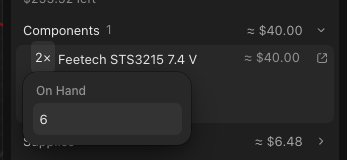
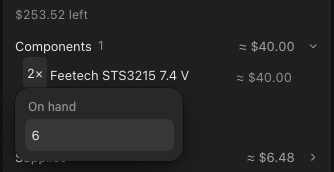
Use sentence case for On hand and keep purchase saves from overwriting each other
Review asked for the new quantity-editor field label in sentence case, like the
Build tab's other field labels (§3b-1). It is now "On hand" in the app, the e2e
locator, three help articles, the guide and a recaptured screenshot.

savePurchaseNow now writes the record into the app's purchase cache before the
bridge answers, and only the latest save's answer replaces the cache. A count
and a price saved together each keep the other's half, and ⌘Z right after a
count reads the new count as its redo. A unit test covers both.

Help articles that cover the changed files now say the web studio keeps and
runs counts of owned parts, and that the agent sees and picks owned parts
first. No changelog entry: a refine change doesn't get one.

diff --git a/src/components/build/usePurchases.test.ts b/src/components/build/usePurchases.test.ts
@@ -1,0 +1,54 @@
+import { describe, expect, it, vi } from 'vitest';
+import type { Purchases, StoredPurchase } from '../../types/robotics';
+import { withPrice } from '../../utils/purchases';
+
+const stored: Purchases = {};
+const pending: (() => void)[] = [];
+
+vi.mock('../../utils/platformBridge', () => ({
+  platformBridge: {
+    listPurchases: () => Promise.resolve({ ...stored }),
+    savePurchase: (key: string, record: StoredPurchase | null) => {
+      if (record) stored[key] = record;
+      else delete stored[key];
+
+      const snapshot = { ...stored };
+
+      return new Promise<Purchases>((resolve) => pending.push(() => resolve(snapshot)));
+    },
+  },
+}));
+
+const { knownPurchases, readOnHand, savePurchaseNow, writeOnHand } = await import('./usePurchases');
+
+const tick = () => new Promise((resolve) => setTimeout(resolve));
+
+const settle = async () => {
+  await tick();
+  pending.splice(0).forEach((resolve) => resolve());
+  await tick();
+};
+
+describe('saving purchases', () => {
+  it('keeps a count and a price saved together, and reads the new count before the save lands', async () => {
+    const first = writeOnHand('servo:sts3215', 2);
+
+    await settle();
+    await first;
+
+    const count = writeOnHand('servo:sts3215', 6);
+
+    expect(readOnHand('servo:sts3215')).toBe(6);
+
+    const price = savePurchaseNow(
+      'servo:sts3215',
+      withPrice(knownPurchases()?.['servo:sts3215'], { packQty: 1, priceUsd: 18, checkedAt: '2026-11-13' }),
+    );
+
+    await settle();
+    await Promise.all([count, price]);
+
+    expect(stored['servo:sts3215']).toMatchObject({ onHand: 6, priceUsd: 18 });
+    expect(knownPurchases()?.['servo:sts3215']).toMatchObject({ onHand: 6, priceUsd: 18 });
+  });
+});

diff --git a/src/components/build/usePurchases.ts b/src/components/build/usePurchases.ts
@@ -13,8 +13,25 @@ const publish = (next: Purchases) => {
 
 export const knownPurchases = () => purchaseCache;
 
+let latestSave = 0;
+
+function withRecord(current: Purchases, key: string, record: StoredPurchase | null): Purchases {
+  const next = { ...current };
+
+  if (record) next[key] = record;
+  else delete next[key];
+
+  return next;
+}
+
 export async function savePurchaseNow(key: string, record: StoredPurchase | null) {
-  publish(await platformBridge.savePurchase(key, record));
+  const save = ++latestSave;
+
+  if (purchaseCache) publish(withRecord(purchaseCache, key, record));
+
+  const saved = await platformBridge.savePurchase(key, record);
+
+  if (save === latestSave) publish(saved);
 }
 
 export const readOnHand = (key: string) => onHandOf(purchaseCache?.[key]);

diff --git a/e2e/onHand.e2e.test.ts b/e2e/onHand.e2e.test.ts
@@ -60,8 +60,8 @@ it('counts servos on hand at $0 in their row, the total and the Budget check, an
   const before = { total: await total(), budget: await budgetBom(), row: dollars(await row.textContent()) };
 
   await count(6).click();
-  await app.page.getByRole('textbox', { name: 'On Hand' }).fill('6');
-  await app.page.getByRole('textbox', { name: 'On Hand' }).press('Enter');
+  await app.page.getByRole('textbox', { name: 'On hand' }).fill('6');
+  await app.page.getByRole('textbox', { name: 'On hand' }).press('Enter');
   await app.page.keyboard.press('Escape');
   await expect.poll(() => count(0).count(), { timeout: 10000 }).toBe(1);
   expect(await row.textContent()).toContain('6 on hand');

diff --git a/src/components/build/QtyEditor.tsx b/src/components/build/QtyEditor.tsx
@@ -63,7 +63,7 @@ export const QtyEditor: React.FC<QtyEditorProps> = ({ line, extra, onQty, onOnHa
         className="w-48"
       >
         {pieces && extra && <CountField label="Quantity" value={extra.qty} min={1} onCommit={onQty} />}
-        {pieces && <CountField label="On Hand" value={line.onHand} min={0} onCommit={onOnHand} />}
+        {pieces && <CountField label="On hand" value={line.onHand} min={0} onCommit={onOnHand} />}
         {extra && (
           <>
             {pieces && <MenuDivider />}

diff --git a/docs/guide/build.md b/docs/guide/build.md
@@ -25,7 +25,7 @@ The Build tab (right panel) and the agent's build tools turn a model into someth
 - **BOM** (`utils/bom.ts`): components counted by part (and version), hardware by exact normalized spec (`hardware:type|size|length|finish[|drive]`), parts with `supplyId` as that supply, printed parts as filament grams per material (shell + infill model, Bambu densities) plus estimated supports, then spools with a 15% margin; extras by key. Stand-ins (block-out kinds) and parts tagged CNC, laser-cut or hand-modeled COTS are listed as needing a source.
 - **Prices:**
   - **Checked:** `library/purchases.json` (app-wide, keyed by catalog key) holds the price the user saw, with pack size and local date; the listing (link, title, note) is optional. Amazon links are saved as canonical `/dp/ASIN` URLs, other store links as typed. Over 60 days old is Stale. The app never fetches Amazon, and the agent never states a price that isn't in the BOM.
-  - **On hand** (`PurchaseRecord.onHand`, `utils/purchases.ts`): the same store holds how many units of each key the person owns, beside the price or alone (`{ onHand: 6 }` for a part owned without a checked price); old records load unchanged. There's no second inventory file. `electron/purchaseRecord.mjs` checks each saved record on desktop and web alike: a count is a whole number from 0 to 100,000, 0 clears it, and a record left with neither a price nor a count is deleted. Each BOM line splits into `onHand` and `toBuy` (`ownedSplit`), and packs, the line price, the totals, the Budget check, Buy All's cart and the agent's `get_bom` count only the units to buy. A fully owned line stays in its section at $0 and never counts as unpriced. Saving or deleting a price keeps the count (`withPrice`), and setting a count keeps the price (`withOnHand`).
+  - **On hand** (`PurchaseRecord.onHand`, `utils/purchases.ts`): the same store holds how many units of each key the person owns, beside the price or alone (`{ onHand: 6 }` for a part owned without a checked price); old records load unchanged. There's no second inventory file. `electron/purchaseRecord.mjs` checks each saved record on desktop and web alike: a count is a whole number from 0 to 100,000, 0 clears it, and a record left with neither a price nor a count is deleted. Each BOM line splits into `onHand` and `toBuy` (`ownedSplit`), and packs, the line price, the totals, the Budget check, Buy All's cart and the agent's `get_bom` count only the units to buy. A fully owned line stays in its section at $0 and never counts as unpriced. Saving or deleting a price keeps the count (`withPrice`), and setting a count keeps the price (`withOnHand`). `savePurchaseNow` (`usePurchases.ts`) puts the record in the app's copy before the bridge answers, and only the latest save's answer replaces it, so a count and a price saved together each keep the other's half, and ⌘Z right after a count reads the new one.
   - **Currency** (`utils/currency.ts`, `currencyStore.ts`, `useMoney`): every amount is stored and computed in US dollars and converted only when shown, so the BOM, checks, budget and agent tools never mix currencies. The 30 ECB currencies; rates come from Frankfurter (`RATES_SOURCE`) once a day at startup, else the bundled `BUNDLED_RATES` (`data/exchangeRates.ts`; refresh them when you touch it). A price or budget typed in another currency keeps what was typed (`PurchaseRecord.entered`, `ProjectSettings.budgetEntered`) beside its dollar value, so it reads back exactly. Components format with `useMoney()` (never a module-level helper, or the React Compiler caches the old currency); plain text for the agent uses `formatMoney` / `formatWhole`, adds `currencyNote` when it isn't USD, and `set_build` takes `budget` in the user's currency. Checks rerun when the currency or rates change. Amazon links stay on amazon.com.
   - **Estimated:** `data/listPrices.ts` holds list prices from maker and US distributor stores (never Amazon), each with store, URL and date. Shown as "≈ $" and counted only in the estimated total.
 - **BOM sections:** Components, Hardware, Added by Agent, Supplies, Materials, Filament, Equipment. Equipment (the Tools supply group and sourced equipment) stays out of the robot's cost.
@@ -67,7 +67,7 @@ The Build tab (right panel) and the agent's build tools turn a model into someth
     - **Lines:** quantity first in its own column (spools for filament, with the grams below), then name, part number or spec (wrapping, never truncated) and packs, then the price. Prices line up under the subtotals: checked in white, ≈ list price muted, stale in amber, otherwise a quiet Add Price. All three open the Add Price sheet (`CheckSheet`, a `Modal`: price first, typed freely and shown as `$1,200.50`, Enter saves; the listing fields fold under Listing; a saved price's Delete Price asks first, like every delete, and the line falls back to its list price or Add Price). Open listing (Search Amazon when there's no product link) floats in the right gutter on hover, under the chevron column, so it covers nothing, and sits at the right of the sheet's header, so checking a price never means unfolding Listing first. Both use `linkLabel`.
     - **Parts:** a line with parts in the scene selects them all on click and previews one of them on hover, never the whole set; filament has no preview, since it isn't one part.
     - **Stand-ins** come first, as a check-style row that selects them (“Replace 2 stand-ins with real parts”). Parts with no source get no row: Checks already lists them as blockers.
-    - **Supplies you add** (`project.extras`; there's no separate Supplies section): + in the header (`AddSupplyMenu`: Power, Wiring, Electronics, Tools) adds one, or one more of a supply already added, and opens its group. Filament isn't offered: it comes from the printed parts, in grams. On every line counted in pieces the quantity is a button (`QtyEditor`) showing the units left to buy; it opens On Hand, plus Quantity and Delete (which asks first) on a line you added. Filament lines added by older scenes get Delete only. A count on hand shows beside the line's spec (“6 on hand”). Changing it is one undo step in the scene's history (`Snapshot.onHand`, `setOnHand` in `useSceneDocument`): ⌘Z writes the old count back, though the count itself is app-wide. The agent's note on an extra shows beside the spec.
+    - **Supplies you add** (`project.extras`; there's no separate Supplies section): + in the header (`AddSupplyMenu`: Power, Wiring, Electronics, Tools) adds one, or one more of a supply already added, and opens its group. Filament isn't offered: it comes from the printed parts, in grams. On every line counted in pieces the quantity is a button (`QtyEditor`) showing the units left to buy; it opens On hand, plus Quantity and Delete (which asks first) on a line you added. Filament lines added by older scenes get Delete only. A count on hand shows beside the line's spec (“6 on hand”). Changing it is one undo step in the scene's history (`Snapshot.onHand`, `setOnHand` in `useSceneDocument`): ⌘Z writes the old count back, though the count itself is app-wide. The agent's note on an extra shows beside the spec.
     - The header's spreadsheet menu shows only when there are lines: CSV Spreadsheet, Markdown, then Buy All and the other stores' links.
     - **Buy All** (`cart.ts`, `bomCart`) fills one Amazon cart from the list: `/gp/aws/cart/add.html` with numbered `ASIN.n` / `Quantity.n` pairs, in line order, for every line with an ASIN (a checked listing's, else a catalog or sourced product link on amazon.com). Quantity is packs of the units to buy, rounded up, and a fully owned line stays out: the checked listing's pack size, else one piece (a 1,000 g spool for filament), so 6 servos sold in pairs are 3 and 13 screws sold by the hundred are 1. A line with no ASIN goes to its store instead: a checked or sourced listing elsewhere, else the list price's store page, grouped under the store's host name below Buy All, one item per line, since stores take no shared cart link. Only https links count, an ASIN must pass `parseAsin`, and the cart is always built on amazon.com, so a forged ASIN or a lookalike host never reaches it (§0h). Lines left with no link keep their row link (an Amazon search). Supplies join the cart only when they have a product link (the ones the agent sources); a catalog supply's search stays a search. Buy All is in ⌘K too (listed while the cart has an ASIN). It opens through `openLink` (`utils/openLink.ts`), the app's one external-link path: the system browser on desktop, a new tab in the web demo. No account and no affiliate tag.
   - **Build guide** (`GuideSection`, `src/guide/`), after the bill of materials: a step-by-step assembly PDF, made with Make Guide (off until the scene has built parts). Making one runs in a worker (`guide.worker.ts`; `generateGuide` packs the parts, the worker measures contacts, plans, draws and writes the HTML, the main thread saves the PDF), so the app stays responsive and you can keep working; a toast with Open says when it's done. While it runs, the card keeps its cover (the new cover replaces it as soon as it's drawn), shows the step being drawn, the time left once it can be estimated, and Stop. A made guide offers Open; an out-of-date one says so in amber and adds Update. There's no Regenerate: a guide reads Out of date whenever a redraw could come back different. That's when its fingerprint changes (`guideFingerprint`: the title, material, infill as printed on the front pages, built parts, joints and `GUIDE_VERSION`), or when its order search stopped at the 20 s limit (`orderTimedOut` on the record), so a later run may check the steps that say “Order not checked”. Bump `GUIDE_VERSION` in any change to the planner, the drawings or item names that changes what a made guide shows, so every guide redraws. Every scene with built parts keeps a current guide (`useGuideAutoUpdate`, Settings → Build → Build guide → Update automatically, on by default): 15 s after the guide goes out of date, while no agent in the scene is working, it makes or updates the guide quietly, with no toast on success or failure. Background runs go one at a time across tabs. Stop, a failed run or another timed-out order search leaves that version alone until the scene changes again; opening another scene in the tab cancels a run. Steps follow the order `check_assembly` proves (`provenOrder.ts`); parts the planner couldn't place come first by the heuristic, and their steps say “Order not checked”.

diff --git a/site/content/help/troubleshoot-app-web-studio-limits.md b/site/content/help/troubleshoot-app-web-studio-limits.md
@@ -48,7 +48,7 @@ The **Agent** tab in the web studio reads “Build with the agent in the desktop
 
 ## Your scenes are gone from the web studio
 
-The web studio keeps scenes, Library models and prices in your browser, not online. Clearing the site's data deletes them. Another browser or computer doesn't see them.
+The web studio keeps scenes, Library models, prices and the counts of parts you own in your browser, not online. Clearing the site's data deletes them. Another browser or computer doesn't see them.
 
 1. Before you clear browser data, open each scene and click **Export** in the title bar.
 2. Choose **Scene** to download a `.basecase` file.
@@ -58,4 +58,4 @@ A scene deleted with the browser's data can't be brought back.
 
 ## What works without the desktop app
 
-Designing, Checks, the bill of materials and prices, Print mode's plate layout and 3MF export all run in the browser. Saving a scene to share works the same in both; [Share a scene](/help/share-a-scene) has the steps.
+Designing, Checks, the bill of materials, prices, counts of parts you own, Print mode's plate layout and 3MF export all run in the browser. Saving a scene to share works the same in both; [Share a scene](/help/share-a-scene) has the steps.

diff --git a/site/content/help/from-design-to-build.md b/site/content/help/from-design-to-build.md
@@ -50,7 +50,7 @@ Only you can set a blocker aside, with **Ignore**. The agent can say it disagree
 
 The **Bill of materials** is built from the scene. Components count by part, screws and nuts by their exact size, and printed parts become grams of filament per material. Filament rounds up to whole spools with 15% to spare.
 
-What the build needs but the model doesn't show joins the list too. A battery brings a switch, fuse, connector, wire and charger; servos bring their cables. Prices you check in a store are exact; the rest are list prices, marked ≈. Parts you own come off the count and cost $0, once you set how many in **On Hand**.
+What the build needs but the model doesn't show joins the list too. A battery brings a switch, fuse, connector, wire and charger; servos bring their cables. Prices you check in a store are exact; the rest are list prices, marked ≈. Parts you own come off the count and cost $0, once you set how many in **On hand**.
 
 ## How it gets made
 

diff --git a/site/content/help/count-the-parts-you-own.md b/site/content/help/count-the-parts-you-own.md
@@ -30,9 +30,9 @@ Record the servos, boards and screws you have, so the bill of materials prices o
 1. In the **Build** tab, find **Bill of materials**.
 2. Click a section, such as **Components**, to open it.
 3. Click a line's quantity, such as **8×**.
-4. Type how many you own in **On Hand**, and press Enter.
+4. Type how many you own in **On hand**, and press Enter.
 
-![On Hand set to 6 for the Feetech STS3215, with 2× left to buy](/help/count-the-parts-you-own/on-hand.png)
+![On hand set to 6 for the Feetech STS3215, with 2× left to buy](/help/count-the-parts-you-own/on-hand.png)
 
 The quantity now shows only the units left to buy, and the price counts only those. The count you own shows under the part's name. A part you own in full stays on the list at $0.
 

diff --git a/site/content/help/requests-that-get-good-results.md b/site/content/help/requests-that-get-good-results.md
@@ -35,7 +35,7 @@ For anything else, attach photos from a few sides, or a sketch. The agent compar
 
 ## Say what it must do and what it must use
 
-Real constraints change the design more than adjectives do. Compare “a gripper” with “a gripper for an STS3215 that opens 60 mm”. Name servos, boards and screws you already own, and a budget if you have one.
+Real constraints change the design more than adjectives do. Compare “a gripper” with “a gripper for an STS3215 that opens 60 mm”. Name servos, boards and screws you already own, and a budget if you have one. The agent also sees the parts you [count as owned](/help/count-the-parts-you-own), and picks them first.
 
 ## Change one thing at a time
 

diff --git a/site/content/help/desktop-app-and-web-studio.md b/site/content/help/desktop-app-and-web-studio.md
@@ -30,7 +30,7 @@ Model, pose and simulate in your browser at app.basecase.so, with no download, a
 
 The [web studio](https://app.basecase.so) is the same studio as the desktop app, running in a browser tab. You can place parts, import meshes and robots, pose joints, run the simulation and export files.
 
-It saves scenes and Library models in your browser's storage, on that computer only. Clearing site data for app.basecase.so deletes them. Chats aren't saved.
+It saves scenes, Library models, prices and the counts of parts you own in your browser's storage, on that computer only. Clearing site data for app.basecase.so deletes them. Chats aren't saved.
 
 ## What needs the desktop app
 

diff --git a/site/content/help/troubleshoot-build-check-blocks-ready-to-build.md b/site/content/help/troubleshoot-build-check-blocks-ready-to-build.md
@@ -58,7 +58,7 @@ The estimated total is over your budget. Lines marked ≈ count at their list pr
 
 1. Open **Budget** in Checks to see the total against your budget.
 2. Save the prices you really pay with **Add Price** in **Bill of materials**. List prices can be higher than what you pay.
-3. Set **On Hand** for parts you already own. They cost $0.
+3. Set **On hand** for parts you already own. They cost $0.
 4. Swap expensive parts, or raise the budget in the field beside the total.
 
 Budget turns amber above 90% of the budget and red over it. [Price the parts and set a budget](/help/price-the-parts-and-set-a-budget) has the steps.
